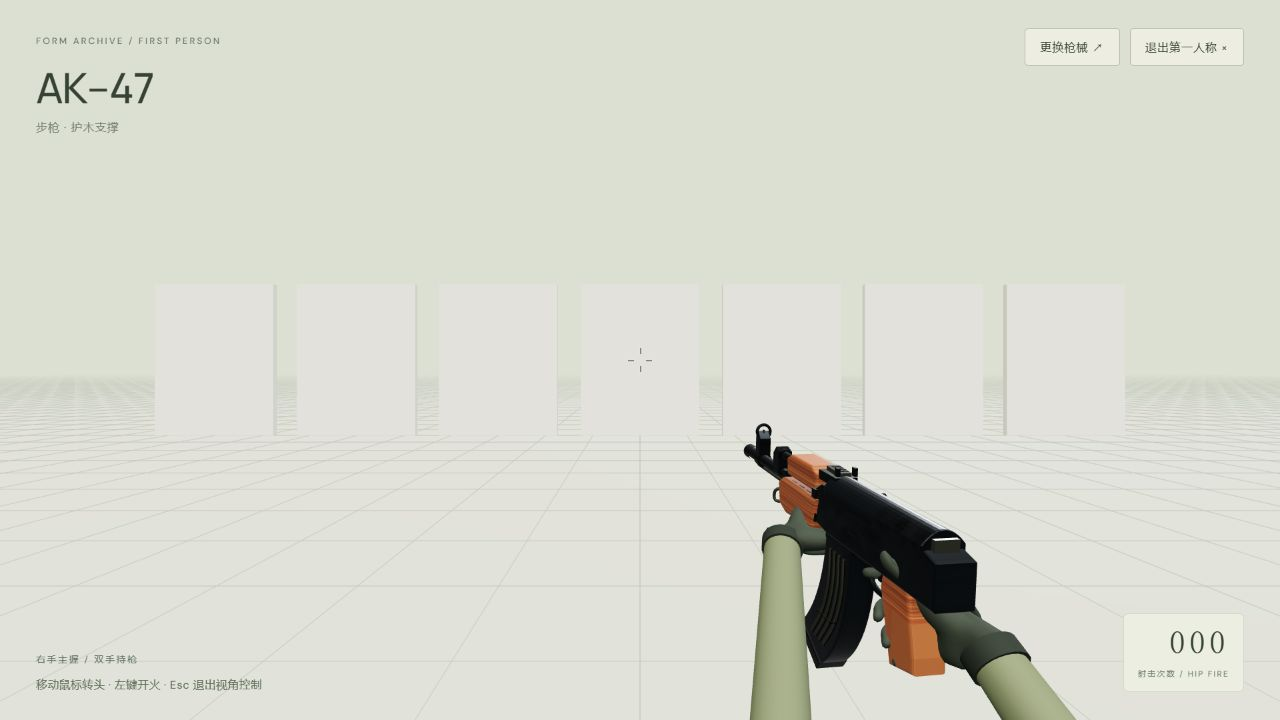
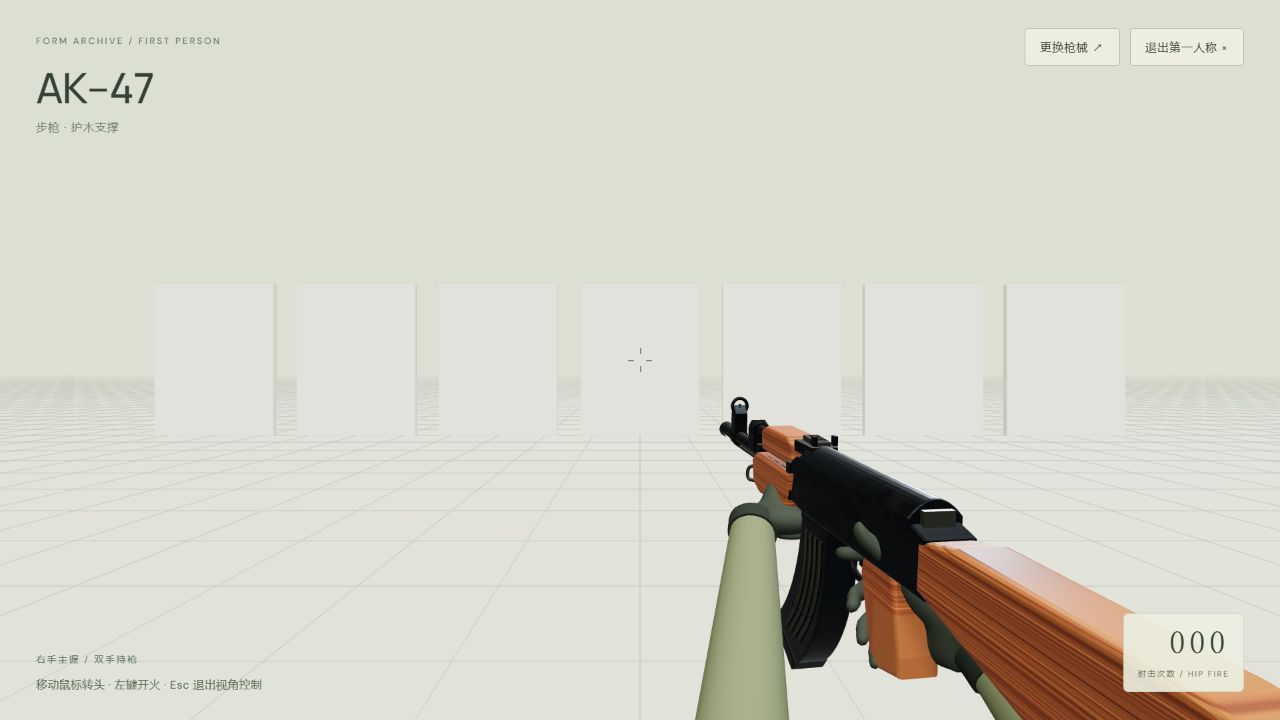
fix: bring grip closer with bent arms and restore AK stock

Changed region(s): [[0.5312, 0.55, 1.0, 1.0]]

diff --git a/src/first-person.js b/src/first-person.js
@@ -38,11 +38,8 @@ export function createFirstPerson({ scene, camera, controls, canvas, archives, f
   }
   scene.add(studio);
   const sleeve = new THREE.MeshStandardMaterial({ color: '#656e53', roughness: 0.97 });
-  function setShoulderParts(model, visible) {
-    model.traverse(part => { if (part.userData.hideInFirstPerson) part.visible = visible; });
-  }
   function configure(nextId) {
-    if (id) { setShoulderParts(archives[id].group, true); scene.add(archives[id].group); }
+    if (id) scene.add(archives[id].group);
     if (arms) {
       arms.traverse(node => { if (node.isMesh) { node.geometry.dispose(); if (node.material !== sleeve) node.material.dispose(); } });
       weapon.remove(arms);
@@ -52,9 +49,6 @@ export function createFirstPerson({ scene, camera, controls, canvas, archives, f
     weapon.position.fromArray(profile.position); weapon.rotation.fromArray(profile.rotation);
     weapon.scale.setScalar(profile.scale);
     const model = archives[id].group;
-    // The stock is against the shoulder, behind the first-person framing. Keep
-    // its full exterior mesh for the gallery/export rather than covering the hand.
-    setShoulderParts(model, false);
     model.position.set(0, 0, 0); model.rotation.set(0, 0, 0); weapon.add(model);
     arms = new THREE.Group(); arms.name = 'forearms';
     weapon.updateMatrix();
@@ -65,7 +59,8 @@ export function createFirstPerson({ scene, camera, controls, canvas, archives, f
       hand.root.scale.setScalar(1 / profile.scale);
       weapon.add(hand.root); hand.pose({ support: side === 'left', rifle: id === 'ak47' });
       const elbow = new THREE.Vector3(...profile.elbows[side]).applyMatrix4(cameraToGun);
-      arms.add(createForearm(new THREE.Vector3(...pose.wrist), elbow, 0.043 / profile.scale, sleeve));
+      const shoulder = new THREE.Vector3(...profile.shoulders[side]).applyMatrix4(cameraToGun);
+      arms.add(createForearm(new THREE.Vector3(...pose.wrist), elbow, 0.043 / profile.scale, sleeve, shoulder));
     }
     weapon.add(arms);
     document.querySelector('#fp-model-name').textContent = archives[id].title;
@@ -110,7 +105,6 @@ export function createFirstPerson({ scene, camera, controls, canvas, archives, f
     if (!active) return;
     input.pause();
     active = false;
-    setShoulderParts(archives[id].group, true);
     scene.add(archives[id].group); firing.setRecoilHandler(null); firing.setModel(archives[id].group, archives[id].muzzle);
     camera.position.copy(saved.position); camera.quaternion.copy(saved.quaternion); camera.fov = saved.fov; camera.near = saved.near;
     controls.target.copy(saved.target); controls.enabled = true; controls.autoRotate = saved.autoRotate;

diff --git a/src/hand-rig.js b/src/hand-rig.js
@@ -97,9 +97,9 @@ export async function loadHands() {
   return { left: prepareHand(left.scene, 'left', glove), right: prepareHand(right.scene, 'right', glove) };
 }
 
-// A tapered fabric forearm extends from each GLB wrist beyond the frame. Its
+// Wrist, elbow and shoulder anchors give the sleeve a bent silhouette. Its
 // independent root can later be replaced by a full upper-arm IK chain.
-export function createForearm(wrist, elbow, radius, material) {
+export function createForearm(wrist, elbow, radius, material, shoulder) {
   const direction = wrist.clone().sub(elbow);
   const geometry = new THREE.CylinderGeometry(radius * 0.63, radius, direction.length(), 24, 8);
   const arm = new THREE.Mesh(geometry, material);
@@ -110,5 +110,14 @@ export function createForearm(wrist, elbow, radius, material) {
   cuff.position.copy(wrist).addScaledVector(direction, -radius * 0.3);
   cuff.quaternion.copy(arm.quaternion);
   const group = new THREE.Group(); group.add(arm, cuff);
+  if (shoulder) {
+    const upperDirection = elbow.clone().sub(shoulder);
+    const upper = new THREE.Mesh(new THREE.CylinderGeometry(radius, radius * 1.2, upperDirection.length(), 24, 6), material);
+    upper.position.copy(elbow).add(shoulder).multiplyScalar(0.5);
+    upper.quaternion.setFromUnitVectors(new THREE.Vector3(0, 1, 0), upperDirection.normalize());
+    const joint = new THREE.Mesh(new THREE.SphereGeometry(radius, 24, 16), material);
+    joint.position.copy(elbow);
+    group.add(upper, joint);
+  }
   return group;
 }

diff --git a/src/first-person-config.js b/src/first-person-config.js
@@ -2,15 +2,17 @@
 export const firstPersonProfiles = {
   ak47: {
     // Hip-fire framing: lower right, mostly forward with a slight inward angle.
-    scale: 0.105, position: [0.31, -0.23, -0.80], rotation: [0, Math.PI / 2 + 0.14, 0.065],
-    elbows: { right: [0.46, -0.61, -0.12], left: [0.04, -0.58, -0.18] },
+    scale: 0.10, position: [0.23, -0.16, -0.65], rotation: [0, Math.PI / 2 + 0.14, 0.065],
+    elbows: { right: [0.34, -0.38, -0.25], left: [0.08, -0.34, -0.45] },
+    shoulders: { right: [0.36, -0.65, 0.06], left: [-0.17, -0.65, 0.06] },
     right: { wrist: [-1.91, -0.66, 0.36], rotation: [0, 0, -Math.PI / 2] },
     left: { wrist: [1.04, -0.62, -0.65], rotation: [Math.PI / 2, 0, 0] },
     recoil: 0.033, lift: 0.045, label: '步枪 · 护木支撑',
   },
   m1913: {
-    scale: 0.048, position: [0.25, -0.19, -0.72], rotation: [0, Math.PI / 2 + 0.12, 0.04],
-    elbows: { right: [0.41, -0.57, -0.13], left: [0.03, -0.56, -0.18] },
+    scale: 0.048, position: [0.18, -0.12, -0.58], rotation: [0, Math.PI / 2 + 0.12, 0.04],
+    elbows: { right: [0.33, -0.37, -0.22], left: [0.02, -0.36, -0.24] },
+    shoulders: { right: [0.36, -0.65, 0.06], left: [-0.17, -0.65, 0.06] },
     right: { wrist: [-3.8, -1.6, 0.61], rotation: [0, 0, -Math.PI / 2] },
     left: { wrist: [-3.85, -2.15, -0.78], rotation: [Math.PI, 0, -Math.PI / 2] },
     recoil: 0.046, lift: 0.09, label: '手枪 · 双手包覆',

diff --git a/src/main.js b/src/main.js
@@ -146,7 +146,6 @@ box(0.17, 0.37, 0.43, -1.91, 0.005, 0, metal);
 for (const z of [-0.215, 0.215]) { screw(-2.23, 0.02, z, 0.043); screw(-3.97, -0.3, z, 0.027); }
 lineTube([[-3.68, -0.66, 0], [-3.72, -0.78, 0], [-3.49, -0.77, 0], [-3.45, -0.65, 0]], 0.026, edgeMetal);
 const shoulderStock = new THREE.Group(); shoulderStock.name = 'Shoulder stock';
-shoulderStock.userData.hideInFirstPerson = true;
 for (const part of rifle.children.slice(stockStart)) shoulderStock.add(part);
 rifle.add(shoulderStock);
 
@@ -372,7 +371,6 @@ document.querySelector('#loading').classList.add('ready');
 const exportModel = () => new Promise((resolve, reject) => {
   const exportId = activeArchive;
   const exportedRifle = archives[exportId].group.clone();
-  exportedRifle.traverse(part => { if (part.userData.hideInFirstPerson) part.visible = true; });
   exportedRifle.position.set(0, 0, 0); exportedRifle.rotation.set(0, 0, 0);
   new GLTFExporter().parse(exportedRifle, result => {
     const blob = new Blob([result], { type: 'model/gltf-binary' });

diff --git a/docs/first-person-plan.md b/docs/first-person-plan.md
@@ -70,7 +70,7 @@
 - 已适配桌面与窄屏构图，并为不支持鼠标捕获的浏览器提供拖动观察方式。
 - 手部采用 WebXR Input Profiles 的 MIT 授权骨骼 GLB；前臂为本项目生成的配套网格。当前没有引入完整上臂骨骼或手臂 IK，固定握姿由单枪配置控制，满足首期原地持枪。
 - `viewmodelRoot` 跟随摄像机，独立 `recoilRoot` 同时驱动双手和枪械；左右手各保留真实骨骼与手指姿态，没有通过负缩放镜像手部。
-- 第一人称构图隐藏贴肩枪托，避免肩部网格覆盖主握手；退出展示和导出 GLB 时仍保留完整枪托。
+- 第一人称、展厅和导出 GLB 均保留完整枪托，不通过隐藏零件处理构图。
 - 新增骨骼与观察逻辑测试，覆盖俯仰限制、枪械朝向、后坐恢复、实际 GLB 骨长保持、顶点有限值和食指动作可逆性。
 - 后续待办仍包括：右键切换瞄准及瞄准射击、左手模式、WASD 行走及其移动范围/碰撞/地面约束；未合并到 `main`。
 
@@ -88,3 +88,10 @@
 - 前臂出口按枪械分别配置，随持枪位置自然落向画面下方。
 - 朝向进一步校准为主要朝正前方：步枪水平内扣约 8°，手枪约 7°，保持右下腰射位置，避免过度向准星汇聚。
 - 参考页面：https://www.gameres.com/863321.html ，检索图集：https://www.bing.com/images/search?q=counter+strike+2+valorant+rifle+hip+fire+first+person+gameplay 。
+
+### 收臂与枪托修正
+
+- 根据体验反馈，将两把枪及双手整体收近身体，重新配置肘部位置，缩短前臂伸出距离。
+- 增加肘部及上臂袖子轮廓，形成屈肘姿态；仍使用单枪固定锚点，没有引入完整骨骼 IK。
+- 移除 AK 枪托在第一人称下的隐藏逻辑，恢复木制枪托，并保留主要朝前、轻微内扣的朝向。
+- 已检查两枪的第一人称显示、切枪和射击效果，更新效果截图；24 项测试通过。默认 `dist/index.html` 写入遇到 EPERM，改用临时输出目录验证生产构建，通过（保留现有大体积 chunk 提示）。
